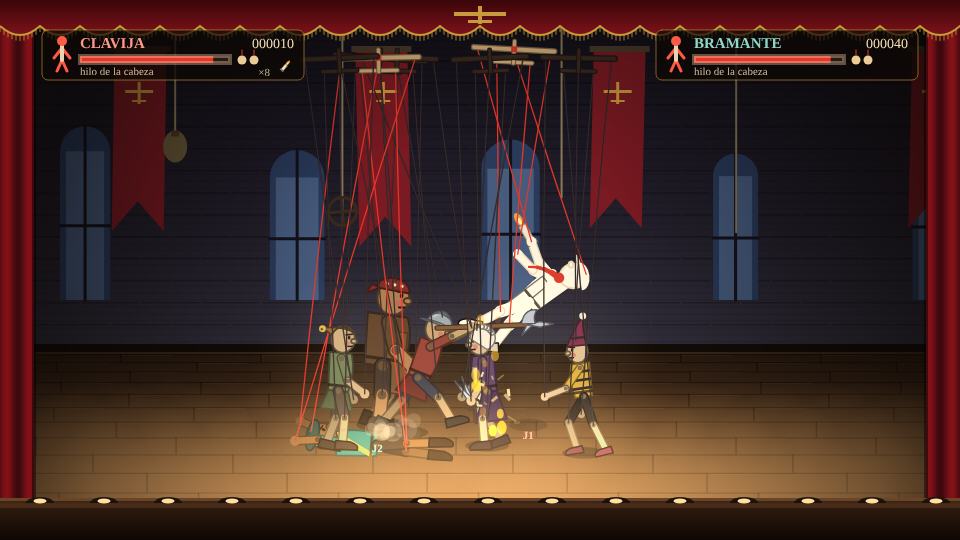
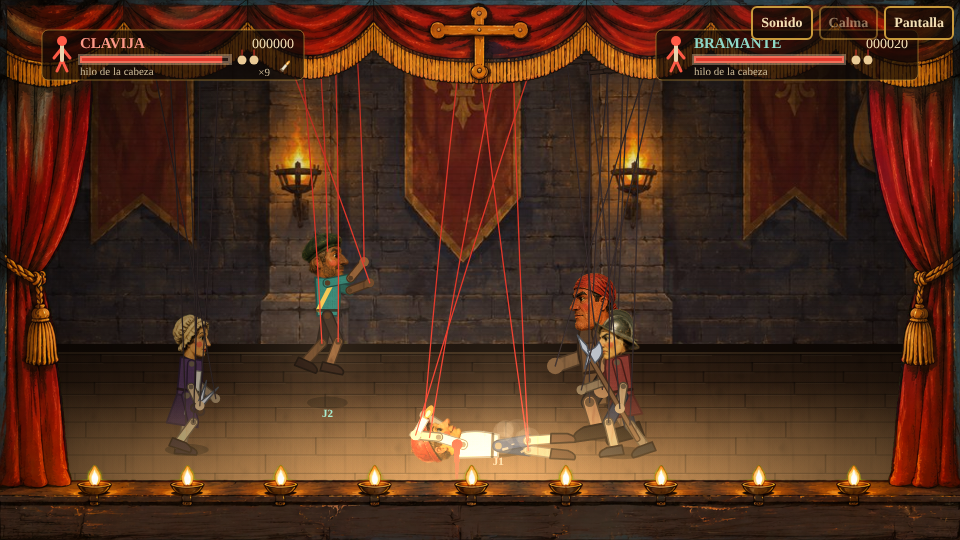
Arte ilustrado: decorados, marco, caras y texturas, con respaldo por código; capturas y GIFs nuevos

diff --git a/index.html b/index.html
@@ -252,6 +252,55 @@ const Music = {
   },
 };
 
+// ───────── Arte ilustrado (img/) con respaldo: si una imagen no carga, se dibuja lo de siempre por código ─────────
+const ART = { img: {}, ok: {}, gray: {} };
+const ART_FILES = ['fondo_bosque.jpg', 'fondo_ciudad.jpg', 'fondo_castillo.jpg', 'fondo_telar.jpg', 'marco.png', 'textura_madera.jpg', 'textura_tela.jpg']
+  .concat(['clavija', 'bramante', 'comparsa', 'alabardero', 'saltimbanqui', 'costurera', 'mozo', 'titiritero'].map(n => 'cara_' + n + '.png'));
+// cara de cada marioneta: cx, cy = centro de la cara en la imagen (fracción) y fh = alto de la cara (fracción del alto de la imagen)
+const HEADART = {
+  clavija: { cx: .52, cy: .64, fh: .60 }, bramante: { cx: .55, cy: .66, fh: .57 }, comparsa: { cx: .55, cy: .70, fh: .56 }, alabardero: { cx: .60, cy: .67, fh: .58 },
+  saltimbanqui: { cx: .55, cy: .74, fh: .48 }, costurera: { cx: .58, cy: .67, fh: .58 }, mozo: { cx: .50, cy: .60, fh: .62 }, titiritero: { cx: .55, cy: .66, fh: .60 },
+};
+function artLoad() {
+  for (const f of ART_FILES) {
+    const name = f.replace(/\.(png|jpg)$/, ''), im = new Image();
+    im.onload = () => { ART.ok[name] = true; if (name.startsWith('textura_')) artGray(name.slice(8)); if (typeof C !== 'undefined' && C && (name === 'marco' || name.startsWith('textura_'))) prerender(); };
+    im.onerror = () => { ART.ok[name] = false; };
+    im.src = 'img/' + f; ART.img[name] = im;
+  }
+}
+// textura en gris centrado en 128 (para teñirla con overlay sin cambiar el tono ni el brillo medio del color)
+function artGray(kind) {
+  const k = kind === 'madera' ? 'w' : 'c', c = document.createElement('canvas'); c.width = c.height = 96; const x = c.getContext('2d');
+  x.drawImage(ART.img['textura_' + kind], 0, 0, 96, 96);
+  x.globalCompositeOperation = 'saturation'; x.fillStyle = '#808080'; x.fillRect(0, 0, 96, 96);
+  x.globalCompositeOperation = 'multiply'; x.fillStyle = k === 'w' ? '#ababab' : '#a3a3a3'; x.fillRect(0, 0, 96, 96);
+  ART.gray[k] = c;
+}
+const TEXC = {};
+function texFill(g, kind, col) {   // kind: 'w' madera, 'c' tela. Devuelve un patrón teñido con col, o col si no hay textura
+  const im = ART.gray[kind]; if (!im || !kind) return col;
+  const key = kind + col; let p = TEXC[key];
+  if (!p) {
+    const c = document.createElement('canvas'); c.width = c.height = 96; const x = c.getContext('2d');
+    x.fillStyle = col; x.fillRect(0, 0, 96, 96); x.globalCompositeOperation = 'overlay'; x.globalAlpha = kind === 'w' ? .8 : .65; x.drawImage(im, 0, 0);
+    p = g.createPattern(c, 'repeat'); TEXC[key] = p;
+  }
+  return p;
+}
+// la cara teñida para el destello (blanco) y el quemado
+const HEADV = {};
+function headSprite(look, pal) {
+  const key = look.hk, im = ART.img['cara_' + key]; if (!key || !HEADART[key] || !ART.ok['cara_' + key]) return null;
+  const v = pal === WHITE_PAL ? 'f' : pal === BURN_PAL ? 'b' : ''; if (!v) return im;
+  const id = key + v; let c = HEADV[id];
+  if (!c) {
+    c = document.createElement('canvas'); c.width = im.naturalWidth; c.height = im.naturalHeight; const x = c.getContext('2d'); x.drawImage(im, 0, 0);
+    x.globalCompositeOperation = 'source-atop'; x.fillStyle = v === 'f' ? '#fff3dc' : 'rgba(34,22,16,.74)'; x.fillRect(0, 0, c.width, c.height); HEADV[id] = c;   // solo sobre lo ya dibujado: nada de rectángulos
+  }
+  return c;
+}
+
 // ───────── Esqueleto, poses y dibujo de marionetas ─────────
 // Ángulos medidos desde la vertical hacia abajo; positivo = hacia donde mira la marioneta.
 // Brazos relativos al torso, piernas relativas al mundo. F = lado cercano (derecho), B = lado lejano.
@@ -368,7 +417,7 @@ function mkPal(L) {
     apron: L.apron, stripe: L.stripe, sash: L.sash, cape: L.cape, eye: L.eye, cheek: L.cheek, peg: shade(L.wood, .55),
   };
 }
-for (const k in LOOKS) LOOKS[k].pal = mkPal(LOOKS[k]);
+for (const k in LOOKS) { LOOKS[k].pal = mkPal(LOOKS[k]); LOOKS[k].hk = k; }
 const WHITE_PAL = (() => { const p = {}; for (const k in LOOKS.comparsa.pal) p[k] = '#fff3dc'; p.edge = '#e8d2b0'; p.eye = '#fff3dc'; return p; })();
 const BURN_PAL = (() => { const p = mkPal({ wood: '#3a2418', shirt: '#2a1a14', pants: '#22140e', boots: '#140a06', hatC: '#24160e', apron: '#3a2418', stripe: '#1a0e08', sash: '#3a2418', cape: '#140a06', eye: '#ff9a3a', cheek: '#5a2a18' }); return p; })();
 
@@ -403,10 +452,10 @@ function fk(b, p, f) {
   return o;
 }
 
-function stick(g, a, b, w, col, edge) {
+function stick(g, a, b, w, col, edge, tex) {
   g.beginPath(); g.moveTo(a[0], a[1]); g.lineTo(b[0], b[1]);
   g.strokeStyle = edge; g.lineWidth = w + 2.4; g.stroke();
-  g.strokeStyle = col; g.lineWidth = w; g.stroke();
+  g.strokeStyle = tex ? texFill(g, tex, col) : col; g.lineWidth = w; g.stroke();
 }
 function dot(g, p, r, col) { g.fillStyle = col; g.beginPath(); g.arc(p[0], p[1], r, 0, TAU); g.fill(); }
 function foot(g, k, a, f, len, h, col, edge) {
@@ -475,6 +524,11 @@ function drawHat(g, kind, r, pal, t, e) {
 function drawHead(g, k, b, pal, look, f, e) {
   const r = b.hr, a = k.ha * f + k.rot;
   g.save(); g.translate(k.hc[0], k.hc[1]); g.rotate(a); g.scale(f, 1);
+  const hs = headSprite(look, pal);
+  if (hs) {   // cara ilustrada: la cara ocupa lo mismo que la elipse de antes y el sombrero va incluido
+    const H = HEADART[look.hk], sc = (r * 2.16) / (H.fh * hs.height), w = hs.width * sc, h = hs.height * sc;
+    g.drawImage(hs, -H.cx * w, -H.cy * h, w, h); g.restore(); return;
+  }
   g.fillStyle = pal.wood; g.strokeStyle = pal.edge; g.lineWidth = 1.6;
   g.beginPath(); g.ellipse(0, 0, r * .96, r * 1.08, 0, 0, TAU); g.fill(); g.stroke();
   if (look.mask) {
@@ -494,7 +548,7 @@ function drawHead(g, k, b, pal, look, f, e) {
   g.restore();
 }
 
-function drawTorso(g, k, b, pal, look, f) {
+function drawTorso(g, k, b, pal, look, f, tc) {
   const [hx, hy] = k.hip, [nx, ny] = k.neck;
   const ux = nx - hx, uy = ny - hy, L = Math.hypot(ux, uy) || 1, ex = ux / L, ey = uy / L;
   const vx = -ey * f, vy = ex * f; // perpendicular hacia delante
@@ -502,11 +556,11 @@ function drawTorso(g, k, b, pal, look, f) {
   g.lineWidth = 1.6; g.strokeStyle = pal.shirtE || pal.edge;
   if (look.skirt) {
     const d = look.skirt === 2 ? .8 : .5;
-    g.fillStyle = pal.shirtD;
+    g.fillStyle = texFill(g, tc, pal.shirtD);
     g.beginPath(); g.moveTo(hx + vx * wt, hy + vy * wt); g.lineTo(hx - ex * L * d + vx * wt * 1.6, hy - ey * L * d + vy * wt * 1.6);
     g.lineTo(hx - ex * L * d - vx * wt * 1.6, hy - ey * L * d - vy * wt * 1.6); g.lineTo(hx - vx * wt, hy - vy * wt); g.closePath(); g.fill(); g.stroke();
   }
-  g.fillStyle = pal.shirt;
+  g.fillStyle = texFill(g, tc, pal.shirt);
   g.beginPath(); g.moveTo(hx + vx * wt, hy + vy * wt); g.quadraticCurveTo(hx + ux * .55 + vx * ws * 1.25, hy + uy * .55 + vy * ws * 1.25, nx + vx * ws * .8, ny + vy * ws * .8);
   g.lineTo(nx - vx * ws, ny - vy * ws); g.lineTo(hx - vx * wt, hy - vy * wt); g.closePath(); g.fill(); g.stroke();
   if (pal.stripe) { g.strokeStyle = pal.stripe; g.lineWidth = 2.4; for (let i = 1; i < 4; i++) { const t = i / 4; g.beginPath(); g.moveTo(hx + ux * t + vx * wt * 1.1, hy + uy * t + vy * wt * 1.1); g.lineTo(hx + ux * t - vx * wt, hy + uy * t - vy * wt); g.stroke(); } }
@@ -630,6 +684,7 @@ function drawPuppet(g, e, X, Y, S, camX) {
   const b = e.body, look = e.look, f = e.facing;
   const pal = e.flash > 0 ? WHITE_PAL : (e.charT > 0 ? BURN_PAL : look.pal);
   const k = fk(b, e.pose, f); e.kin = k;
+  const tw = pal === WHITE_PAL ? null : 'w', tc = pal === WHITE_PAL ? null : 'c';   // sin textura durante el destello
   // capa del titiritero (detrás)
   if (look.cape) {
     const nk = [X + k.neck[0] * S, Y + k.neck[1] * S];
@@ -642,19 +697,19 @@ function drawPuppet(g, e, X, Y, S, camX) {
   g.save(); g.translate(X + (e.shk || 0), Y); g.scale(S, S); g.lineCap = 'round'; g.lineJoin = 'round';
   const armB = e.hp[2].cut, legF = e.hp[3].cut;
   // brazo lejano
-  stick(g, k.sh, k.eB, b.wa, pal.shirtD, pal.shirtE || pal.edge);
-  stick(g, k.eB, k.hB, b.wa * .85, pal.woodD, pal.edge); dot(g, k.hB, b.wa * .62, pal.woodD); dot(g, k.eB, b.wa * .32, pal.peg);
+  stick(g, k.sh, k.eB, b.wa, pal.shirtD, pal.shirtE || pal.edge, tc);
+  stick(g, k.eB, k.hB, b.wa * .85, pal.woodD, pal.edge, tw); dot(g, k.hB, b.wa * .62, pal.woodD); dot(g, k.eB, b.wa * .32, pal.peg);
   // pierna lejana
-  stick(g, k.hip, k.kB, b.wl, pal.pantsD, pal.pantsE); stick(g, k.kB, k.fB, b.wl * .78, pal.woodD, pal.edge);
+  stick(g, k.hip, k.kB, b.wl, pal.pantsD, pal.pantsE, tc); stick(g, k.kB, k.fB, b.wl * .78, pal.woodD, pal.edge, tw);
   foot(g, k.fB, k.fBa, f, b.wl * 2.1, b.wl * .9, shade(pal.boots, .8), '#120a06'); dot(g, k.kB, b.wl * .3, pal.peg);
-  drawTorso(g, k, b, pal, look, f);
+  drawTorso(g, k, b, pal, look, f, tc);
   // pierna cercana
-  stick(g, k.hip, k.kF, b.wl, pal.pants, pal.pantsE); stick(g, k.kF, k.fF, b.wl * .78, pal.wood, pal.edge);
+  stick(g, k.hip, k.kF, b.wl, pal.pants, pal.pantsE, tc); stick(g, k.kF, k.fF, b.wl * .78, pal.wood, pal.edge, tw);
   foot(g, k.fF, k.fFa, f, b.wl * 2.1, b.wl * .9, pal.boots, '#120a06'); dot(g, k.kF, b.wl * .32, pal.peg); dot(g, k.hip, b.wl * .35, pal.peg);
   drawHead(g, k, b, pal, look, f, e);
   // brazo cercano y arma
-  stick(g, k.sh, k.eF, b.wa, pal.shirt, pal.shirtE || pal.edge);
-  stick(g, k.eF, k.hF, b.wa * .85, pal.wood, pal.edge); dot(g, k.eF, b.wa * .34, pal.peg); dot(g, k.sh, b.wa * .38, pal.peg);
+  stick(g, k.sh, k.eF, b.wa, pal.shirt, pal.shirtE || pal.edge, tc);
+  stick(g, k.eF, k.hF, b.wa * .85, pal.wood, pal.edge, tw); dot(g, k.eF, b.wa * .34, pal.peg); dot(g, k.sh, b.wa * .38, pal.peg);
   if (e.weapon && !e.hp[1].cut) drawWeapon(g, e.weapon.type, k.hF, k.wa, f, e.t, S);
   dot(g, k.hF, b.wa * .66, pal.wood);
   g.restore();
@@ -676,14 +731,20 @@ function drawRag(g, e, camX) {
   const P = i => [R.p[i][0] - camX, GY(e.z) - R.p[i][1] * DS(e.z)];
   const [hip, neck, head, eF, hF, eB, hB, kF, fF, kB, fB] = R.p.map((_, i) => P(i));
   g.save(); g.lineCap = 'round';
-  const st = (a, c, w, col, ed) => stick(g, a, c, w * s, col, ed);
-  st(neck, eB, b.wa, pal.shirtD, pal.edge); st(eB, hB, b.wa * .85, pal.woodD, pal.edge);
-  st(hip, kB, b.wl, pal.pantsD, pal.edge); st(kB, fB, b.wl * .78, pal.woodD, pal.edge);
-  st(hip, neck, b.wt * 2, pal.shirt, pal.edge);
-  st(hip, kF, b.wl, pal.pants, pal.edge); st(kF, fF, b.wl * .78, pal.wood, pal.edge);
-  g.fillStyle = pal.wood; g.strokeStyle = pal.edge; g.lineWidth = 1.6;
-  g.beginPath(); g.ellipse(head[0], head[1], b.hr * s, b.hr * 1.08 * s, Math.atan2(head[1] - neck[1], head[0] - neck[0]) + Math.PI / 2, 0, TAU); g.fill(); g.stroke();
-  st(neck, eF, b.wa, pal.shirt, pal.edge); st(eF, hF, b.wa * .85, pal.wood, pal.edge);
+  const tw = e.charT > 0 ? null : 'w', tc = e.charT > 0 ? null : 'c', st = (a, c, w, col, ed, tx) => stick(g, a, c, w * s, col, ed, tx);
+  st(neck, eB, b.wa, pal.shirtD, pal.edge, tc); st(eB, hB, b.wa * .85, pal.woodD, pal.edge, tw);
+  st(hip, kB, b.wl, pal.pantsD, pal.edge, tc); st(kB, fB, b.wl * .78, pal.woodD, pal.edge, tw);
+  st(hip, neck, b.wt * 2, pal.shirt, pal.edge, tc);
+  st(hip, kF, b.wl, pal.pants, pal.edge, tc); st(kF, fF, b.wl * .78, pal.wood, pal.edge, tw);
+  const hsp = headSprite(e.look, pal), hang = Math.atan2(head[1] - neck[1], head[0] - neck[0]) + Math.PI / 2;
+  if (hsp) {
+    const H = HEADART[e.look.hk], sc = (b.hr * s * 2.16) / (H.fh * hsp.height), w = hsp.width * sc, h = hsp.height * sc;
+    g.save(); g.translate(head[0], head[1]); g.rotate(hang); g.drawImage(hsp, -H.cx * w, -H.cy * h, w, h); g.restore();
+  } else {
+    g.fillStyle = pal.wood; g.strokeStyle = pal.edge; g.lineWidth = 1.6;
+    g.beginPath(); g.ellipse(head[0], head[1], b.hr * s, b.hr * 1.08 * s, hang, 0, TAU); g.fill(); g.stroke();
+  }
+  st(neck, eF, b.wa, pal.shirt, pal.edge, tc); st(eF, hF, b.wa * .85, pal.wood, pal.edge, tw);
   g.restore();
 }
 
@@ -2165,7 +2226,7 @@ function genScene(theme, len, seed) {
 let C = null;
 function prerender() {
   const mk = (w, h) => { const c = document.createElement('canvas'); c.width = w; c.height = h; return c; };
-  C = {};
+  C = { bd: {} };
   // marco del proscenio
   const f = mk(W, H), g = f.getContext('2d');
   const curtainSide = (x0, w, dir) => {
@@ -2189,6 +2250,7 @@ function prerender() {
     g.fillStyle = '#ffe0a0'; g.beginPath(); g.ellipse(x, 501, 6.5, 2.6, 0, 0, TAU); g.fill();
   }
   g.fillStyle = 'rgba(0,0,0,.35)'; g.fillRect(0, 508, W, 32);
+  if (ART.ok.marco) { g.clearRect(0, 0, W, H); g.drawImage(ART.img.marco, 0, 0, W, H); }   // marco ilustrado
   C.frame = f;
   // brillo de candilejas
   const gl = mk(W, 200), gg = gl.getContext('2d');
@@ -2208,6 +2270,11 @@ function prerender() {
   // degradados de suelo y cielos
   const ctx = document.createElement('canvas').getContext('2d');
   C.floor = ctx.createLinearGradient(0, 344, 0, 500); C.floor.addColorStop(0, '#24170e'); C.floor.addColorStop(.4, '#4a301c'); C.floor.addColorStop(1, '#7a5030');
+  if (ART.gray.w) {   // suelo con la veta ya mezclada: una sola imagen que se desplaza
+    C.floorTex = mk(W + 192, 146); const fg = C.floorTex.getContext('2d');
+    fg.save(); fg.translate(0, -354); fg.fillStyle = C.floor; fg.fillRect(0, 354, W + 192, 146);
+    fg.globalCompositeOperation = 'overlay'; fg.globalAlpha = .55; fg.scale(2, 2); fg.fillStyle = texFill(fg, 'w', '#808080'); fg.fillRect(0, 177, (W + 192) / 2, 73); fg.restore();
+  }
   C.sky = {};
   const sky = (name, stops) => { const gr = ctx.createLinearGradient(0, 30, 0, 360); stops.forEach(([o, c]) => gr.addColorStop(o, c)); C.sky[name] = gr; };
   sky('bosque', [[0, '#0f1f26'], [.6, '#24463f'], [1, '#3f6450']]);
@@ -2215,12 +2282,46 @@ function prerender() {
   sky('castillo', [[0, '#14111a'], [.6, '#24202c'], [1, '#33303c']]);
 }
 
+// Decorado ilustrado: se repite en espejo (sin costura) y se desplaza más despacio que el suelo
+function backdropCanvas(name) {   // el decorado ya ampliado y recortado, una sola vez
+  if (C.bd[name]) return C.bd[name];
+  const im = ART.img[name], base = 354 / im.naturalHeight, need = (W + 70) / (im.naturalWidth * base), z = Math.min(1.15, Math.max(1, Math.sqrt(need))), sx = Math.min(1.45, Math.max(1, need / z));
+  const h = 354 * z, tw = Math.ceil(im.naturalWidth * base * z * sx), c = document.createElement('canvas'); c.width = tw; c.height = 354;
+  c.getContext('2d').drawImage(im, 0, 354 - h, tw, h);   // anclado abajo: se recorta el cielo
+  return (C.bd[name] = c);
+}
+function drawBackdrop(g, name, off, alpha) {
+  // un solo decorado debe cubrir toda la pantalla (si no, se vería repetido a la vez); se repite en espejo, sin costura
+  const c = backdropCanvas(name), tw = c.width, per = tw * 2, o = ((off % per) + per) % per;
+  let i = Math.floor(o / tw), x = -(o - i * tw);
+  if (alpha !== undefined) g.globalAlpha = alpha;
+  for (; x < W; x += tw, i++) {
+    if (i & 1) { g.save(); g.translate(x + tw, 0); g.scale(-1, 1); g.drawImage(c, 0, 0); g.restore(); }
+    else g.drawImage(c, x, 0);
+  }
+  g.globalAlpha = 1;
+}
 function drawScene(g, camX) {
   const S = Game.scene, th = S.theme, t = Game.T;
   g.fillStyle = C.sky[th]; g.fillRect(0, 0, W, 360);
+  const bgOK = ART.ok['fondo_' + th];
+  if (bgOK) {
+    drawBackdrop(g, 'fondo_' + th, camX * .3);
+    if (th === 'castillo' && ART.ok.fondo_telar && camX > Game.actLen - W - 900) {   // al final, el telar desnudo del jefe
+      drawBackdrop(g, 'fondo_telar', camX * .3, clamp((camX - (Game.actLen - W - 900)) / 600, 0, 1));
+    }
+  }
   // textura de lienzo pintado
   g.globalAlpha = .05; g.fillStyle = '#000'; for (let y = 40; y < 360; y += 7) g.fillRect(0, y, W, 2); g.globalAlpha = 1;
-  if (th === 'bosque') {
+  if (bgOK) {
+    if (th === 'bosque') {   // la luna ya no está en el decorado (se vería repetida): se dibuja aquí, colgada de su hilo
+      const mx = 640 - camX * .05, my = 158 + Math.sin(t * .01) * 3;
+      g.strokeStyle = 'rgba(210,200,170,.6)'; g.lineWidth = 1; g.beginPath(); g.moveTo(mx, 40); g.lineTo(mx, my - 40); g.stroke();
+      const gl = g.createRadialGradient(mx, my, 30, mx, my, 120); gl.addColorStop(0, 'rgba(240,230,180,.22)'); gl.addColorStop(1, 'rgba(240,230,180,0)'); g.fillStyle = gl; g.fillRect(mx - 120, my - 120, 240, 240);
+      g.fillStyle = '#ece2bd'; g.beginPath(); g.arc(mx, my, 40, 0, TAU); g.fill();
+      g.fillStyle = 'rgba(160,150,110,.4)'; g.beginPath(); g.arc(mx - 12, my - 8, 8, 0, TAU); g.arc(mx + 14, my + 10, 6, 0, TAU); g.arc(mx + 6, my - 16, 4, 0, TAU); g.fill();
+    }
+  } else if (th === 'bosque') {
     for (const s of S.stars) { const x = ((s.x - camX * .04) % (W + 300) + W + 300) % (W + 300) - 150; g.fillStyle = 'rgba(240,230,190,.7)'; g.fillRect(x - s.s / 2, s.y, s.s, s.s); }
     const mx = 700 - camX * .05, my = 120 + Math.sin(t * .01) * 3;
     g.strokeStyle = 'rgba(200,190,160,.5)'; g.lineWidth = 1; g.beginPath(); g.moveTo(mx, 0); g.lineTo(mx, my - 40); g.stroke();
@@ -2312,6 +2413,7 @@ function drawScene(g, camX) {
   g.fillStyle = '#3a2a1a'; g.fillRect(0, 352, W, 2);
   // suelo de tablas
   g.fillStyle = C.floor; g.fillRect(0, 354, W, 146);
+  if (C.floorTex) g.drawImage(C.floorTex, -((camX * .95) % 192), 354);   // veta de la madera, que avanza con la cámara
   let y = 354, k = 0;
   while (y < 498) {
     const h = 8 + k * 1.3, f = .9 + (y - 354) / 146 * .14;
@@ -2760,6 +2862,7 @@ Snd.on = Save.d.sound;
 syncTools();
 
 // ───────── Arranque ─────────
+artLoad();
 prerender();
 Input.init();
 Touch.init();

diff --git a/tools/build-art.py b/tools/build-art.py
@@ -1,0 +1,116 @@
+#!/usr/bin/env python3
+"""Prepara el arte de Hilo Cortado a partir de las ilustraciones originales.
+
+Uso: python3 tools/build-art.py CARPETA   (con estos nombres: fondo_bosque.png, fondo_ciudad.png, fondo_castillo.png,
+     fondo_telar.png, marco.png, caras.png, textura_madera.png, textura_tela.png)
+Escribe en img/: los decorados recortados (sin telón ni suelo), el marco con transparencia, una cara por marioneta
+(con transparencia) y las dos texturas. Necesita Pillow y NumPy.
+"""
+import sys, pathlib
+import numpy as np
+from PIL import Image, ImageFilter
+
+root = pathlib.Path(__file__).resolve().parent.parent
+src = pathlib.Path(sys.argv[1]); out = root / 'img'; out.mkdir(exist_ok=True)
+
+def key(im):
+    a = np.asarray(im.convert('RGB')).astype(np.float32)
+    r, g, b = a[..., 0], a[..., 1], a[..., 2]
+    spill = g - np.maximum(r, b)
+    alpha = np.clip(1 - (spill - 40) / 90, 0, 1); alpha[spill < 40] = 1
+    g2 = np.where(spill > 0, np.minimum(g, np.maximum(r, b) + 6), g)
+    return Image.fromarray(np.dstack([r, g2, b, alpha * 255]).clip(0, 255).astype(np.uint8), 'RGBA')
+
+def quitar_filas(im, mask):
+    """Rellena la zona enmascarada interpolando en horizontal, fila a fila, entre el cielo de cada lado (respeta el degradado vertical)."""
+    a = np.asarray(im).astype(np.float32).copy(); rng = np.random.default_rng(2)
+    for y in np.where(mask.any(1))[0]:
+        xs = np.where(mask[y])[0]; x0, x1 = xs.min() - 1, xs.max() + 1
+        l = a[y, max(x0 - 26, 0):x0 + 1].mean(0); r = a[y, x1:x1 + 27].mean(0)
+        t = ((np.arange(x0 + 1, x1) - x0) / (x1 - x0))[:, None]; a[y, x0 + 1:x1] = l * (1 - t) + r * t
+    f = np.asarray(Image.fromarray((mask * 255).astype(np.uint8)).filter(ImageFilter.GaussianBlur(3))).astype(np.float32)[..., None] / 255
+    sm = np.asarray(Image.fromarray(a.clip(0, 255).astype(np.uint8)).filter(ImageFilter.GaussianBlur(14))).astype(np.float32)
+    out = np.asarray(im).astype(np.float32) * (1 - f) + (sm + rng.normal(0, 2.2, a.shape)) * f
+    return Image.fromarray(out.clip(0, 255).astype(np.uint8))
+
+def quitar(im, mask, iters=6000, f=4):
+    """Rellena la zona enmascarada con el color de alrededor (difusión de Laplace). Se resuelve a 1/f de resolución para que converja
+    y se reescala; solo cambia lo enmascarado. im: PIL RGB, mask: booleana."""
+    a = np.asarray(im).astype(np.float32).copy()
+    ys, xs = np.where(mask); y0, y1, x0, x1 = max(ys.min() - 10, 0), ys.max() + 11, max(xs.min() - 10, 0), xs.max() + 11
+    sub = a[y0:y1, x0:x1]; m = mask[y0:y1, x0:x1]
+    h, w = sub.shape[:2]; sh, sw = max(h // f, 4), max(w // f, 4)
+    small = np.asarray(Image.fromarray(sub.clip(0, 255).astype(np.uint8)).resize((sw, sh), Image.BOX)).astype(np.float32)
+    ms = np.asarray(Image.fromarray((m * 255).astype(np.uint8)).resize((sw, sh), Image.BOX)) > 8   # lo dudoso cuenta como enmascarado
+    small[ms] = small[~ms].mean(0)
+    for _ in range(iters):
+        p = np.pad(small, ((1, 1), (1, 1), (0, 0)), mode='edge')
+        small[ms] = ((p[:-2, 1:-1] + p[2:, 1:-1] + p[1:-1, :-2] + p[1:-1, 2:]) / 4)[ms]
+    big = np.asarray(Image.fromarray(small.clip(0, 255).astype(np.uint8)).resize((w, h), Image.BICUBIC)).astype(np.float32)
+    feather = np.asarray(Image.fromarray((m * 255).astype(np.uint8)).filter(ImageFilter.GaussianBlur(4))).astype(np.float32)[..., None] / 255
+    rng = np.random.default_rng(1)
+    sub[:] = sub * (1 - feather) + (big + rng.normal(0, 2.2, big.shape)) * feather   # grano parecido al de la pintura
+    return Image.fromarray(a.clip(0, 255).astype(np.uint8))
+
+def disco(shape, cx, cy, r):
+    yy, xx = np.ogrid[:shape[0], :shape[1]]
+    return (xx - cx) ** 2 + (yy - cy) ** 2 <= r * r
+
+# Decorados: se recorta solo el escenario (fuera telón, cenefa y suelo); fracciones x0, x1, y0, y1 de la imagen
+CROPS = {'bosque': (.12, .88, .10, .81), 'ciudad': (.05, .95, .13, .81), 'castillo': (.06, .93, .14, .80), 'telar': (.03, .97, .04, .82)}
+for k, (x0, x1, y0, y1) in CROPS.items():
+    im = Image.open(src / f'fondo_{k}.png').convert('RGB'); W, H = im.size
+    # la luna y el sol se quitan del decorado: repetido en espejo saldrían dos. La luna se dibuja por código.
+    if k == 'bosque':
+        mk = disco((H, W), W * .641, H * .251, 150); mk[int(H * .08):int(H * .14), int(W * .641) - 7:int(W * .641) + 8] = True; im = quitar_filas(im, mk)
+    elif k == 'ciudad':
+        a = np.asarray(im).astype(int); mk = disco((H, W), W * .477, H * .298, 72) & (a.sum(2) > 330); im = quitar(im, mk)
+    c = im.crop((round(W * x0), round(H * y0), round(W * x1), round(H * y1)))
+    h = 480; c = c.resize((round(c.width * h / c.height), h), Image.LANCZOS)
+    c.save(out / f'fondo_{k}.jpg', quality=82, optimize=True, progressive=True); print('fondo', k, c.size)
+
+# Marco del escenario: el hueco verde pasa a transparente
+m = key(Image.open(src / 'marco.png')); m = m.resize((1440, round(1440 * m.height / m.width)), Image.LANCZOS)
+m.save(out / 'marco.png', optimize=True); print('marco', m.size)
+
+# Caras: hoja de 4 x 2 en este orden. Cada cabeza se separa por componentes conectados (los sombreros invaden las celdas vecinas)
+NAMES = ['clavija', 'bramante', 'comparsa', 'alabardero', 'saltimbanqui', 'costurera', 'mozo', 'titiritero']
+from collections import deque
+from PIL import ImageFilter
+
+def components(mask, step=4):
+    """Etiqueta los componentes conectados de una máscara booleana (sobre una versión reducida y dilatada). Devuelve (etiquetas a tamaño completo, nº)."""
+    small = Image.fromarray((mask * 255).astype(np.uint8)).resize((mask.shape[1] // step, mask.shape[0] // step), Image.BOX).point(lambda v: 255 if v > 20 else 0)
+    small = small.filter(ImageFilter.MaxFilter(3)); sm = np.asarray(small) > 0
+    lab = np.zeros(sm.shape, np.int32); n = 0
+    for y, x in zip(*np.where(sm)):
+        if lab[y, x]: continue
+        n += 1; q = deque([(y, x)]); lab[y, x] = n
+        while q:
+            cy, cx = q.popleft()
+            for dy, dx in ((1, 0), (-1, 0), (0, 1), (0, -1)):
+                ny, nx = cy + dy, cx + dx
+                if 0 <= ny < sm.shape[0] and 0 <= nx < sm.shape[1] and sm[ny, nx] and not lab[ny, nx]: lab[ny, nx] = n; q.append((ny, nx))
+    full = np.kron(lab, np.ones((step, step), np.int32))
+    out = np.zeros(mask.shape, np.int32); h, w = min(full.shape[0], mask.shape[0]), min(full.shape[1], mask.shape[1]); out[:h, :w] = full[:h, :w]
+    return out, n
+sheet = key(Image.open(src / 'caras.png')); W, H = sheet.size
+al = np.asarray(sheet.getchannel('A')) > 40
+lab, n = components(al)
+sizes = np.array([((lab == i) & al).sum() for i in range(1, n + 1)]); big = [i + 1 for i in np.argsort(sizes)[::-1][:8]]
+if len(big) != 8 or min(sizes[i - 1] for i in big) < 0.2 * max(sizes): raise SystemExit('no se han encontrado 8 cabezas separadas en caras.png')
+cent = {i: tuple(np.argwhere((lab == i) & al).mean(0)) for i in big}   # (y, x)
+rows = sorted(big, key=lambda i: cent[i][0]); order = sorted(rows[:4], key=lambda i: cent[i][1]) + sorted(rows[4:], key=lambda i: cent[i][1])
+rgba = np.asarray(sheet).copy()
+for name, i in zip(NAMES, order):
+    m = (lab == i) & al
+    ys, xs = np.where(m); y0, y1, x0, x1 = ys.min(), ys.max() + 1, xs.min(), xs.max() + 1
+    piece = rgba[y0:y1, x0:x1].copy(); piece[..., 3] = np.where(m[y0:y1, x0:x1], piece[..., 3], 0)
+    im = Image.fromarray(piece, 'RGBA'); s = 220 / im.height
+    im = im.resize((round(im.width * s), 220), Image.LANCZOS)
+    im.save(out / f'cara_{name}.png', optimize=True); print('cara', name, im.size)
+
+# Texturas repetibles
+for k in ('madera', 'tela'):
+    t = Image.open(src / f'textura_{k}.png').convert('RGB').resize((192, 192), Image.LANCZOS)
+    t.save(out / f'textura_{k}.jpg', quality=88, optimize=True); print('textura', k)
